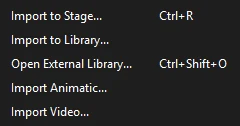
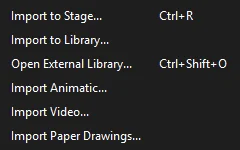
Docs: scribble, lasso and fill across frames; paper drawings import

diff --git a/docs/import.html b/docs/import.html
@@ -34,7 +34,7 @@
 <h2>The Import commands</h2>
 
 <div class="split">
-  <figure style="margin:0"><img src="assets/shots/import-menu.webp" alt="The File, Import menu: Import to Stage (Ctrl+R), Import to Library, Open External Library (Ctrl+Shift+O), Import Animatic and Import Video" width="240" height="126"></figure>
+  <figure style="margin:0"><img src="assets/shots/import-menu.webp" alt="The File, Import menu: Import to Stage (Ctrl+R), Import to Library, Open External Library (Ctrl+Shift+O), Import Animatic, Import Video and Import Paper Drawings" width="240" height="150"></figure>
   <div>
     <p>Everything starts from <span class="menu-path">File &rsaquo; Import</span>. Pick one or more files in the file browser; Phoenix opens it in the folder you imported from last time.</p>
   </div>
@@ -46,6 +46,7 @@
   <dt>Open External Library...</dt><dd><kbd>Ctrl</kbd>+<kbd>Shift</kbd>+<kbd>O</kbd>. Opens another document's library in a panel of its own, to copy items from. See <a href="library.html#libraries-of-other-documents">Libraries of other documents</a>.</dd>
   <dt>Import Animatic...</dt><dd>Brings in an animatic's cut (EDL or Final Cut XML) as shot labels, boards and audio. See <a href="pipeline.html#start-from-the-animatic">Start from the animatic</a>.</dd>
   <dt>Import Video...</dt><dd>Brings in a video to animate over, as a still for each frame on a guide layer. See <a href="#video">Video</a>.</dd>
+  <dt>Import Paper Drawings...</dt><dd>Turns scans or photos of pencil drawings into clean vector lines, one drawing to a keyframe. See <a href="#paper-drawings">Paper drawings</a>.</dd>
 </dl>
 
 <p>Each import is a single step you can undo, however many files it brings in. Importing a file whose name the library already uses adds a second item, numbered (<em>photo 2.png</em>); nothing in the library is replaced. When part of a file cannot be brought in, Phoenix lists what was left out when the import finishes.</p>
@@ -63,10 +64,11 @@
     <tr><td>Documents and movies</td><td class="wrap">FLA, XFL, SWF</td><td class="wrap">Their library items, and their main timeline as a movie clip</td></tr>
     <tr><td>Sound</td><td class="wrap">WAV, AIFF, MP3, FLAC, Ogg</td><td class="wrap">A sound in the library</td></tr>
     <tr><td>Video</td><td class="wrap">MP4, MOV, M4V, AVI, MKV, WebM, FLV, WMV, MPEG</td><td class="wrap">Stills on a guide layer, with Import Video</td></tr>
+    <tr><td>Paper drawings</td><td class="wrap">Scans or photos: PNG, JPEG, BMP, TIFF, GIF, WebP</td><td class="wrap">Vector lines, a drawing to a keyframe, with Import Paper Drawings</td></tr>
   </tbody>
 </table>
 
-<p>Phoenix imports without an options dialog: each kind of file comes in one way, described below. Rearrange the result afterward with the usual tools.</p>
+<p>Apart from <a href="#paper-drawings">Import Paper Drawings</a>, Phoenix imports without an options dialog: each kind of file comes in one way, described below. Rearrange the result afterward with the usual tools.</p>
 
 <h2>Images</h2>
 
@@ -84,6 +86,39 @@
 </ul>
 
 <p>Numbers need not be padded or consecutive: <code>walk_1.png</code>, <code>walk_2.png</code> and <code>walk_10.png</code> come in that order. The current layer must not be locked.</p>
+
+<h2 id="paper-drawings">Paper drawings</h2>
+
+<p>If you draw on paper, <span class="menu-path">File &rsaquo; Import &rsaquo; Import Paper Drawings...</span> turns your scanned or photographed pencil drawings into clean vector lines, ready to color with the <a href="ink-and-paint.html#coloring-many-regions">Paint Bucket</a>. Shadows and the color of the paper are taken out, the pencil lines are found and traced, and each drawing goes on a keyframe of its own. The window works in three steps, top to bottom, with a preview of the cleaned-up drawing beside them.</p>
+
+<figure>
+  <img src="assets/shots/import-paper-drawings.webp" alt="The Import Paper Drawings window: 1. Your drawings, with paper-scan-1.jpg picked and the whole numbered sequence of 4 drawings brought in; 2. Clean up, with Even out the paper and Auto levels on, Line darkness 170, Remove specks under 6 px, Close gaps up to 0 px, Smooth lines 1, Curve fit Normal and a black line color; 3. Place, onto a new layer from frame 1, one frame per drawing, fitted to the stage, keeping page position. The preview shows the ball and the ground line as clean black lines on white." width="759" height="694">
+</figure>
+
+<ol>
+  <li><strong>Your drawings.</strong> Click <strong>Browse...</strong> and pick a drawing. If its name ends in a number, such as <code>ball_01.jpg</code>, and the folder holds the rest of the numbered set, <strong>Bring in the whole numbered sequence</strong> brings them all, in number order; the window says how many it found. You can also pick several pictures at once.</li>
+  <li><strong>Clean up.</strong> Watch the preview as you change these; <strong>Preview drawing</strong> picks which drawing it shows and <strong>Show the scan</strong> shows it as it came in, to compare.
+    <ul>
+      <li><strong>Even out the paper</strong> takes out shadows, uneven light from a lamp or a phone, and the paper's tint, so the whole page reads as white. Leave it on unless your scan is already pure white.</li>
+      <li><strong>Auto levels</strong> makes the darkest lines black and the paper white, which helps with faint pencil.</li>
+      <li><strong>Line darkness</strong> is how dark a mark must be to count as a line. Raise it to pick up fainter pencil; lower it to leave out smudges and light construction lines. <strong>Find Line Darkness</strong> sets it from the drawing for you. The line under the preview says how much of the page is line: a few percent is usual.</li>
+      <li><strong>Remove specks under</strong> clears away dust and dots smaller than this many pixels, and fills tiny holes in lines.</li>
+      <li><strong>Close gaps up to</strong> joins lines that almost meet, so the Paint Bucket can fill the shapes they make. Start at 0 and raise it a pixel or two if your lines have small breaks.</li>
+      <li><strong>Smooth lines</strong> evens out the pencil's rough edges before tracing, from 0 (every wobble kept) to 3. <strong>Curve fit</strong> works as it does for <a href="#trace-bitmap">Trace Bitmap</a>. <strong>Line color</strong> is the color the lines are drawn in.</li>
+    </ul>
+  </li>
+  <li><strong>Place.</strong> <strong>Layer</strong> puts the drawings on a new layer named <em>Paper Drawings</em> or on the layer selected in the timeline. <strong>Start at frame</strong> is where the first drawing goes, and <strong>Frames per drawing</strong> how long each one stays: 1 for drawings on ones, 2 for twos. <strong>Size</strong> fits each page to the stage, or keeps a pixel of the scan to a pixel of the stage. <strong>Line up</strong> keeps each page in the same place, which keeps drawings made on pegs lined up with each other; <strong>Center each drawing</strong> puts each drawing's lines in the middle of the stage instead, for loose sketches drawn anywhere on the page.</li>
+</ol>
+
+<p><strong>Import</strong> cleans up and traces every drawing and puts them on their keyframes, as one step you can undo. Phoenix remembers your cleanup settings for next time. Large scans are shrunk to 1,600 pixels on their longest side before tracing, which keeps the lines light to draw and edit.</p>
+
+<figure>
+  <img src="assets/shots/import-paper-result.webp" alt="The four ball drawings imported: the first shows on the stage as black vector lines, and the timeline has a new Paper Drawings layer with keyframes on frames 1 to 4; the status bar says Imported 4 drawings onto Paper Drawings, frames 1 to 4." width="700" height="550">
+</figure>
+
+<p>The lines come in as filled shapes, like brush strokes, so they keep the pencil's varying thickness. To try it, download the four sample drawings of a bouncing ball (<a href="assets/img/paper-scan-1.jpg" download>1</a>, <a href="assets/img/paper-scan-2.jpg" download>2</a>, <a href="assets/img/paper-scan-3.jpg" download>3</a>, <a href="assets/img/paper-scan-4.jpg" download>4</a>) into one folder and pick the first.</p>
+
+<p>Tips for good scans: scan in grayscale at 150 to 300 dpi, or photograph the page flat, from straight above, in even light. Darker, cleaner pencil lines need less cleanup. Lines that run off the page or into each other are fine.</p>
 
 <h2 id="photoshop-files">Photoshop files</h2>
 

diff --git a/docs/ink-and-paint.html b/docs/ink-and-paint.html
@@ -17,7 +17,7 @@
 <meta property="og:image:alt" content="The Phoenix window with three flower characters on the stage, the timeline below and the Properties panel on the right">
 <meta name="twitter:card" content="summary_large_image">
 <meta name="twitter:image" content="https://phoenixanimate.com/assets/shots/hero.webp">
-<meta name="keywords" content="line art color art ink paint bucket palette linked colors day night recolor tone highlight glow shadow effect layer composite">
+<meta name="keywords" content="line art color art ink paint bucket scribble lasso fill across frames palette linked colors day night recolor tone highlight glow shadow effect layer composite">
 <link rel="icon" href="assets/img/logo.png">
 <link rel="stylesheet" href="assets/site.css">
 <script>try { const t = localStorage.getItem("phoenix-docs-theme"); if (t) document.documentElement.dataset.theme = t; } catch (e) {}</script>
@@ -38,6 +38,47 @@
 <p>On the color art layer, the <b>Paint Bucket</b> fills the regions the line layer's strokes close around where you click, even where the color layer has nothing yet, so you can ink first and paint after. The paint lands on the color layer and the lines stay untouched above it. Both are ordinary layers in the saved file.</p>
 
 <p>Two more ways to paint quickly: the Paint Bucket's <strong>Fill all regions</strong> fills, with one click, every enclosed area of a shape that has the same fill as the one you click, and a brush in <strong>Repaint</strong> mode recolors the fills it passes over without painting anything new on empty areas. See <a href="drawing-tools.html#paint-bucket-and-ink-bottle">Paint Bucket and Ink Bottle</a> and <a href="drawing-tools.html#brush-modes">Brush modes</a>.</p>
+
+<h2 id="coloring-many-regions">Coloring many regions at once</h2>
+
+<p>Clicking every little area of every drawing one by one takes a long time. The Paint Bucket has two ways to color faster, both on its Tool tab: <strong>Fill by</strong> colors many areas of one drawing with one stroke of the pen, and <strong>Fill on</strong> colors the same area on many drawings with one click. Each is a single step to undo, and both close small gaps in the lines as the <strong>Gap size</strong> setting says.</p>
+
+<div class="split">
+  <figure style="margin:0"><img src="assets/shots/tool-paint-bucket.webp" alt="The Paint Bucket's Tool tab: Gap size Close Small Gaps, Fill all regions, Fill by Click, Only empty regions (on), Fill on From here to the end, Follow moving regions (on) and Lock fill" width="391" height="420"></figure>
+  <div>
+    <h3 id="scribble-and-lasso">Scribble and lasso</h3>
+    <p>Set <strong>Fill by</strong> to <strong>Scribble</strong>, then drag across your drawing: every area the pointer passes over fills with the fill color. While you drag, the areas about to fill show in a lighter shade, so you can see what you will get before you let go.</p>
+    <p>Set <strong>Fill by</strong> to <strong>Lasso</strong> and draw a loop around part of a drawing instead: every area inside the loop fills. A dashed line shows the loop as you draw it.</p>
+    <p>With <strong>Only empty regions</strong> on (the usual setting), a scribble or a loop fills only areas that have no color yet. Lines drawn with a brush, or traced from paper, are filled shapes too, and this keeps them, and the colors you have already put down, safe from a careless stroke. Turn it off to recolor painted areas as well. A plain click, with no drag, fills the one area as always.</p>
+  </div>
+</div>
+
+<figure>
+  <img src="assets/shots/bucket-scribble-lasso.webp" alt="Three views of a ball drawing: a zigzag scribble over both halves of the ball with both halves showing light blue; the ball after letting go, both halves filled blue; a dashed loop drawn round the next drawing's ball, both halves showing light blue inside it" width="990" height="250">
+  <figcaption>Scribbling over both halves of the ball, the result, and a loop round the next drawing</figcaption>
+</figure>
+
+<p>A quick way to color a character is one scribble per color: pick the skin color and scribble across the face and hands, pick the shirt color and scribble across the shirt, and so on. It works on <a href="#line-and-color-art">color art layers</a> too, where the paint goes under the lines.</p>
+
+<h3 id="fill-across-frames">Fill across frames</h3>
+
+<p>Set <strong>Fill on</strong> to choose which drawings of the current layer one click colors:</p>
+
+<dl class="defs">
+  <dt>This drawing</dt><dd>Only the drawing you click, as usual.</dd>
+  <dt>Selected frames</dt><dd>Every drawing in the frames selected in the timeline. Select the frames first, then click on the stage.</dd>
+  <dt>Onion skin range</dt><dd>Every drawing the onion skin reaches before and after the playhead, as set with its markers.</dd>
+  <dt>From here to the end</dt><dd>The drawing you click and every drawing after it on the layer.</dd>
+</dl>
+
+<p>On each drawing, Phoenix fills the area under the spot you clicked. That suits a character who stays in place. When the area moves from drawing to drawing, as a bouncing ball does, turn on <strong>Follow moving regions</strong>: Phoenix then looks on each drawing for the area most like the one it filled on the drawing before, by where it is and how big it is, and fills that. It only follows into areas painted as the first one was, so it never jumps onto the lines.</p>
+
+<figure>
+  <img src="assets/shots/fill-across-frames.webp" alt="Four drawings of a ball bouncing to the right and squashing on the ground, with the top half of the ball filled blue on every one from a single click on the first" width="1320" height="250">
+  <figcaption>One click on the first drawing, with From here to the end and Follow moving regions, fills the ball's top half on all four</figcaption>
+</figure>
+
+<p>The status bar says how many drawings were filled and lists the frames where no matching area was found, so you can fill those few by hand. The whole fill is one step to undo.</p>
 
 <h2>Linked palettes</h2>
 

diff --git a/docs/drawing-tools.html b/docs/drawing-tools.html
@@ -338,7 +338,7 @@
 <h2>Paint Bucket and Ink Bottle</h2>
 
 <div class="split">
-  <figure style="margin:0"><img src="assets/shots/tool-paint-bucket.webp" alt="Tool tab for the Paint Bucket: the fill swatch, Gap size Close Small Gaps, and the Fill all regions and Lock fill check boxes" width="391" height="290"></figure>
+  <figure style="margin:0"><img src="assets/shots/tool-paint-bucket.webp" alt="Tool tab for the Paint Bucket: the fill swatch, Gap size Close Small Gaps, Fill all regions, Fill by Click, Only empty regions, Fill on From here to the end, Follow moving regions and Lock fill" width="391" height="420"></figure>
   <div>
     <p>The <strong>Paint Bucket</strong> (<kbd>K</kbd>) fills an enclosed area with the current fill, or recolors an existing fill. Click inside an area bounded by strokes, or by the edges of other fills. It works on shapes; a click on empty stage, or in an area that isn't closed, does nothing.</p>
     <p>If your outline has small gaps, choose a <strong>Gap size</strong>: <strong>Close Small Gaps</strong> (the default), <strong>Close Medium Gaps</strong> or <strong>Close Large Gaps</strong> bridge openings of about 3, 8 and 20 pixels on screen, so zooming out closes wider gaps. <strong>Don't Close Gaps</strong> fills only closed areas. The bridge is not drawn; the fill simply reaches across it.</p>
@@ -348,6 +348,7 @@
 <ul>
   <li>With a gradient as the fill, <strong>drag</strong> instead of clicking to lay the gradient along the drag: a linear one from where you press to where you let go, a radial one centered where you press, out to there.</li>
   <li><strong>Fill all regions</strong> paints, with one click, every enclosed area of the shape that has the same fill as the one you click: all the empty ones, say.</li>
+  <li><strong>Fill by</strong> <strong>Scribble</strong> fills every area a drag passes over, and <strong>Lasso</strong> every area inside a loop you draw; <strong>Only empty regions</strong> keeps them to areas with no color yet. <strong>Fill on</strong> fills the clicked area on many drawings at once: the selected frames, the onion skin range or the rest of the layer. See <a href="ink-and-paint.html#coloring-many-regions">Coloring many regions at once</a>.</li>
   <li><strong>Lock fill</strong> (also on the brushes) places a gradient or bitmap over the whole stage instead of fitting it to each area, so separate areas read as one sweep of color.</li>
 </ul>
 

diff --git a/docs/changelog.html b/docs/changelog.html
@@ -34,6 +34,17 @@
 
 <p class="lead">What changed in each release of Phoenix, newest first.</p>
 
+<h2 id="vunreleased">Unreleased</h2>
+
+<ul>
+  <li>Paint Bucket Scribble: drag across a drawing and every area you pass over fills, with a preview while you drag</li>
+  <li>Paint Bucket Lasso: draw a loop and every area inside it fills; Only empty regions keeps lines and earlier colors safe</li>
+  <li>Fill on: one Paint Bucket click fills the same area on every drawing in the selected frames, the onion skin range or the rest of the layer</li>
+  <li>Follow moving regions finds the area on each drawing as it moves, and the status bar lists frames where nothing matched</li>
+  <li>File &gt; Import &gt; Import Paper Drawings: scanned or photographed pencil drawings cleaned up and traced into vector lines, one to a keyframe</li>
+  <li>Paper cleanup evens out shadows and paper tint, finds the lines by darkness, removes specks, closes small gaps and smooths, with a live preview</li>
+</ul>
+
 <h2 id="v0-20-0">0.20.0</h2>
 
 <ul>

diff --git a/CHANGELOG.md b/CHANGELOG.md
@@ -2,6 +2,15 @@
 
 What changed in each release of Phoenix, newest first.
 
+## Unreleased
+
+- Paint Bucket Scribble: drag across a drawing and every area you pass over fills, with a preview while you drag
+- Paint Bucket Lasso: draw a loop and every area inside it fills; Only empty regions keeps lines and earlier colors safe
+- Fill on: one Paint Bucket click fills the same area on every drawing in the selected frames, the onion skin range or the rest of the layer
+- Follow moving regions finds the area on each drawing as it moves, and the status bar lists frames where nothing matched
+- File > Import > Import Paper Drawings: scanned or photographed pencil drawings cleaned up and traced into vector lines, one to a keyframe
+- Paper cleanup evens out shadows and paper tint, finds the lines by darkness, removes specks, closes small gaps and smooths, with a live preview
+
 ## 0.20.0
 
 - A boned shape whose last points are bound to no bone keeps the binding of its other points when posed or rebound
